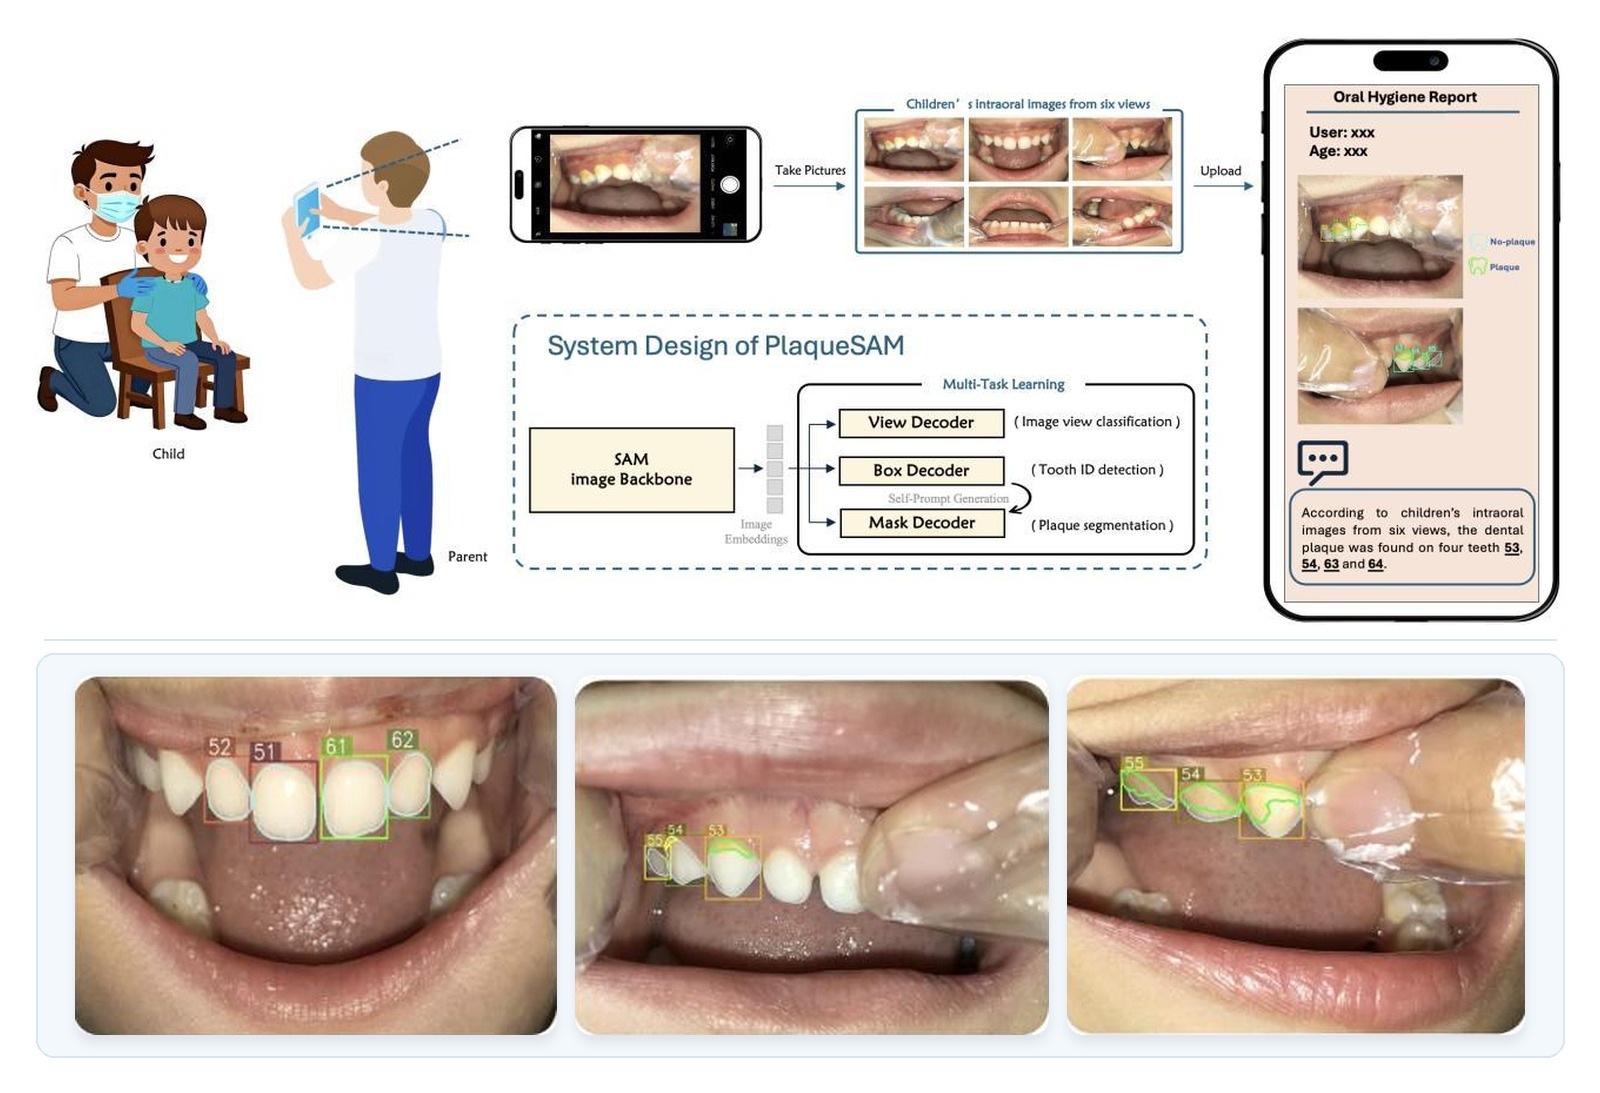
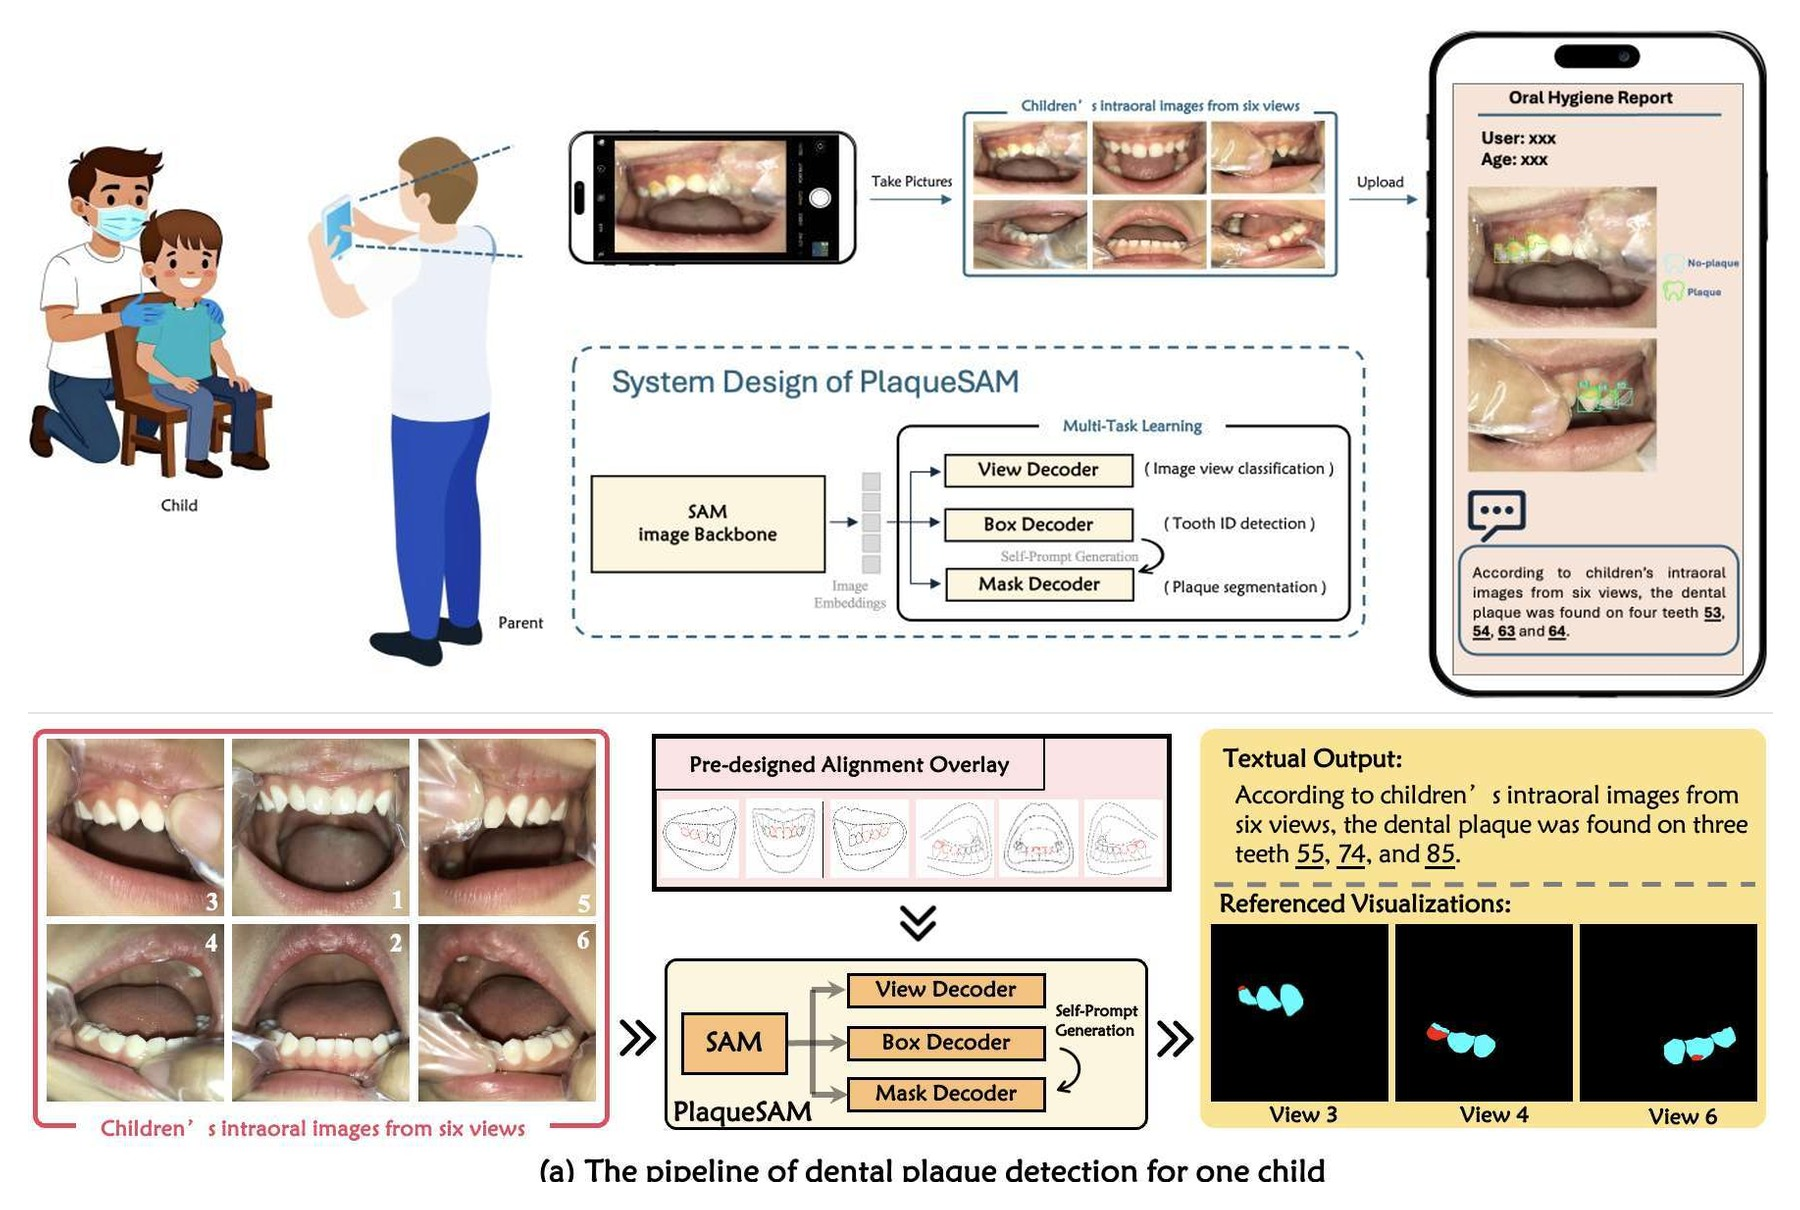
Place the paper's plaque-detection pipeline under the PlaqueSAM overview.

diff --git a/index.html b/index.html
@@ -237,7 +237,7 @@
      <!-- PlaqueSAM -->
           <tr class="leading-paper" data-tags="segmentation">
             <td style="padding:20px;width:30%;max-width:30%" align="center">
-              <img style="width:100%;max-width:100%" src="images/framework_PlaqueSAM.jpg" alt="PlaqueSAM">
+              <img style="width:100%;max-width:100%" src="images/framework_PlaqueSAM.jpg?v=3" alt="PlaqueSAM">
             </td>
             <td width="75%" valign="center">
               <a href="https://www.nature.com/articles/s41746-026-03385-9">
